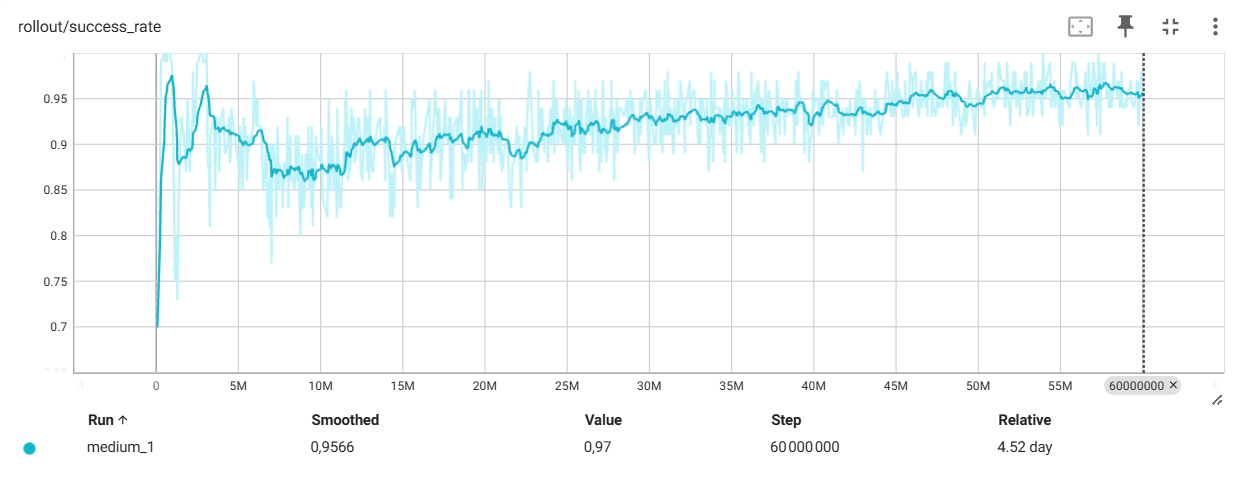
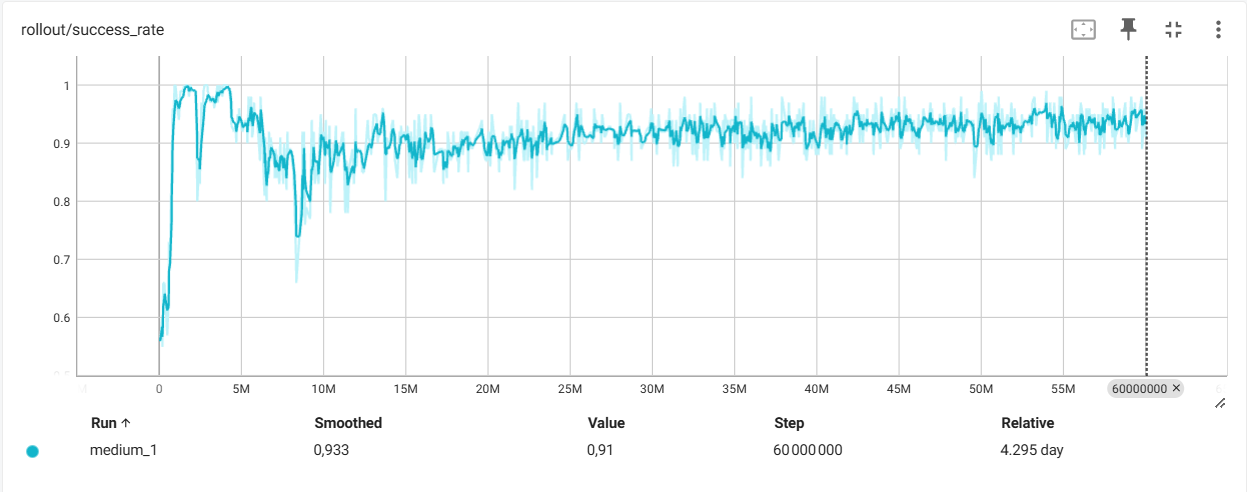
training: Launching new hard training try

diff --git a/README.md b/README.md
@@ -271,7 +271,7 @@ Let's see the results of the different trainings after the last changes.
 
 ### Easy mode training
 
-For the easy mode, the model was trained for **12,000,000 timesteps** (~19hours). The model still performs well on easy level seeds. The training is normal and the visual behavior is consistant. So adding the new component to the reward didn't worsen things. That's reassuring.
+For the easy mode, the model was trained for **12,000,000 timesteps** (~17hours). The model still performs well on easy level seeds. The training is normal and the visual behavior is consistent. So adding the new component to the reward didn't worsen things. That's reassuring.
 
 Also the number of timesteps assigned is still sufficient for the model to settle by the end of its training. We can see the entropy_loss (= -entropy) starts increasing at the end, which means there is less uncertainty in the action it chooses.
 
@@ -422,7 +422,7 @@ Tested on the medium and hard level seeds, the performance of the easy level mod
 
 ### Medium mode training
 
-The medium level training lasted **~4.5 days for 60,000,000 timesteps**. The training was also a success. Given much more time, the model is able to achieve over 90% success rate and display good behavior. The training metrics are presented below : 
+The medium level training lasted **~4.3 days for 60,000,000 timesteps**. The training was also a success. Given much more time, the model is able to achieve over 90% success rate and display good behavior. The training metrics are presented below : 
 
 <table align="center">
   <tr>
@@ -512,7 +512,7 @@ And here are the evaluation results :
 </table>
 
 
-I also tested **Middle schooler Billy :)** on easy and hard tests sets too. On difficult level worlds we can see a clear improvement, going from 15% (our easy level prior) to 61%. Now it's time to test and see if the new reward component can really help bridge the gap to the perfect success in hard level modes.
+I also tested **Middle schooler Billy :)** on easy and hard tests sets too. On difficult level worlds we can see a clear improvement, going from 16% (our easy level prior) to 59%. Now it's time to test and see if the new reward component can really help bridge the gap to the perfect success in hard level modes.
 
 **Test of the model trained for medium mode on easy mode worlds**
 
@@ -575,7 +575,9 @@ I also tested **Middle schooler Billy :)** on easy and hard tests sets too. On d
 
 ### Hard mode training
 
-Now the last step of training. Like already said in previous versions, the difficulty of hard level seeds is that they require the agent to be able to "give up" on the reward signal momentarily and go around large walls to finally be able to attain its goal. `PPO` wasn't able to do that. And we are now trying to see if `RecurrentPPO` can help. I trained the agent for **100,000,000 timesteps**. After just that, the agent was able to achieve a better performance than the previous versions. 
+Now the last step of training. Like already said in previous versions, the difficulty of hard level seeds is that they require the agent to be able to "give up" on the reward signal momentarily and go around large walls to finally be able to attain its goal. `PPO` wasn't able to do that. And we are now trying to see if `RecurrentPPO` can help. 
+
+<!-- I trained the agent for **100,000,000 timesteps**. After just that, the agent was able to achieve a better performance than the previous versions. 
 
 <table align="center">
   <tr>
@@ -727,6 +729,8 @@ Now on easy and medium levels :
   </tr>
 </table>
 
+-->
+
 <br />
 <br />
 
@@ -788,7 +792,7 @@ And each version is a single run.
 
 **Next steps.** The wall penalty stays at `-0.4`: the data didn't show it as the cause, so it is not tested on its own. I'll run controlled experiments changing one thing at a time :
 
-1. **Expansion frequency and learning rate schedule** (first, since they are the confounding factors left over from the first v4 run). The seed pools go back to the v3 rates, but applied *per pool* instead of per stage : easy 1,500, medium 4,000, hard 10,000 episodes between two doublings, in every stage. The hard budget goes to 150M timesteps with a learning rate `1e-5 → 7e-6` (the one v3 saw), so the hard pool is full after ~75M steps and the learning rate has not decayed to 2e-6 while the curriculum was still growing. Medium keeps 60M timesteps and `5e-5 → 1e-5`. See "What changed in v4" for the reasoning.
+1. **Expansion frequency and learning rate schedule** (first, since they are the confounding factors left over from the first v4 run). The seed pools go back to the v3 rates, but applied *per pool* instead of per stage : easy 1,500, medium 4,000, hard 10,000 episodes between two doublings, in every stage. The hard budget goes to 150M timesteps with a learning rate `1e-5 → 7e-6` (the one v3 saw), so the hard pool is full after ~75M steps and the learning rate has not decayed to 2e-6 while the curriculum was still growing. Medium keeps 60M timesteps and `5e-5 → 1e-5`.
 2. A longer discount horizon (γ = 0.995-0.998).
 3. A lower `ent_coef` or a capped `log_std`.
 
